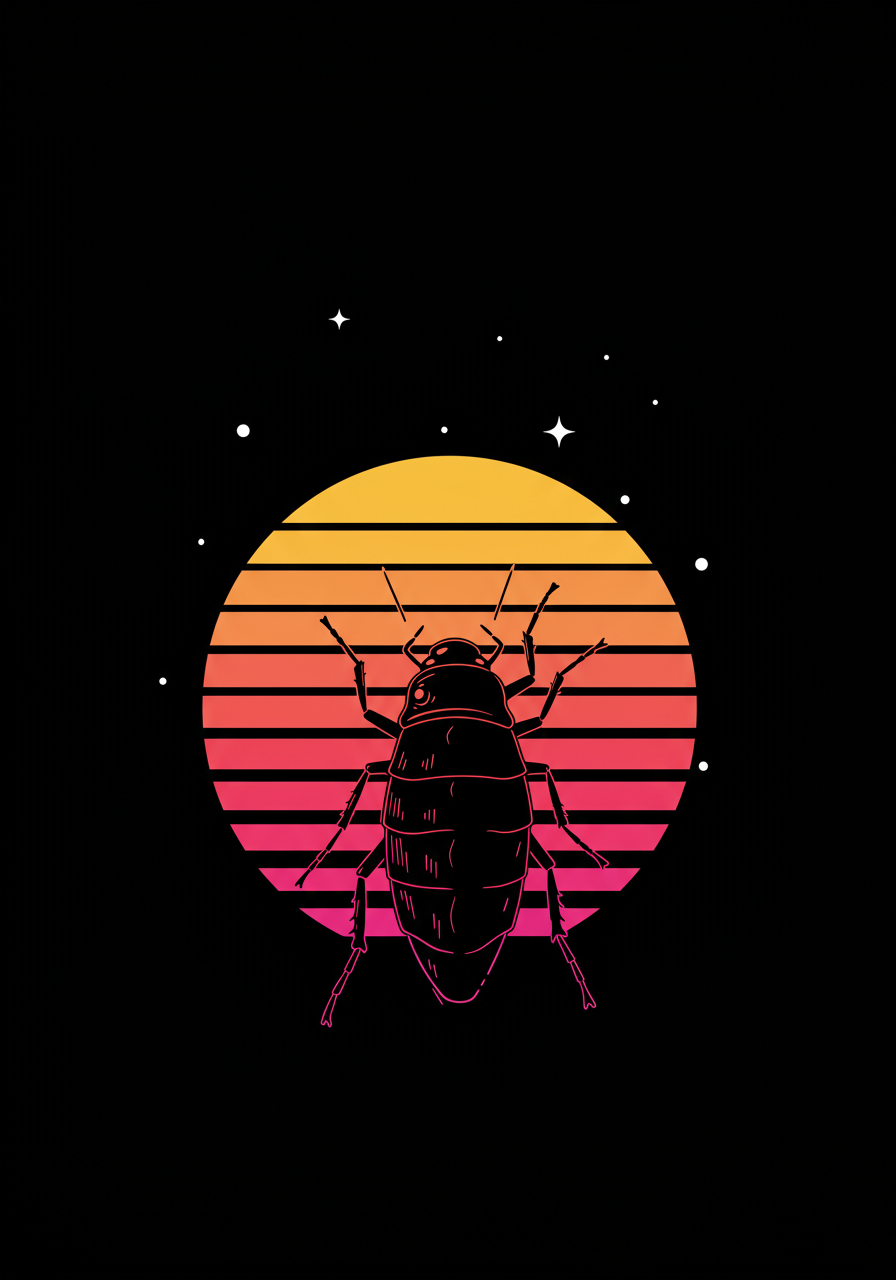
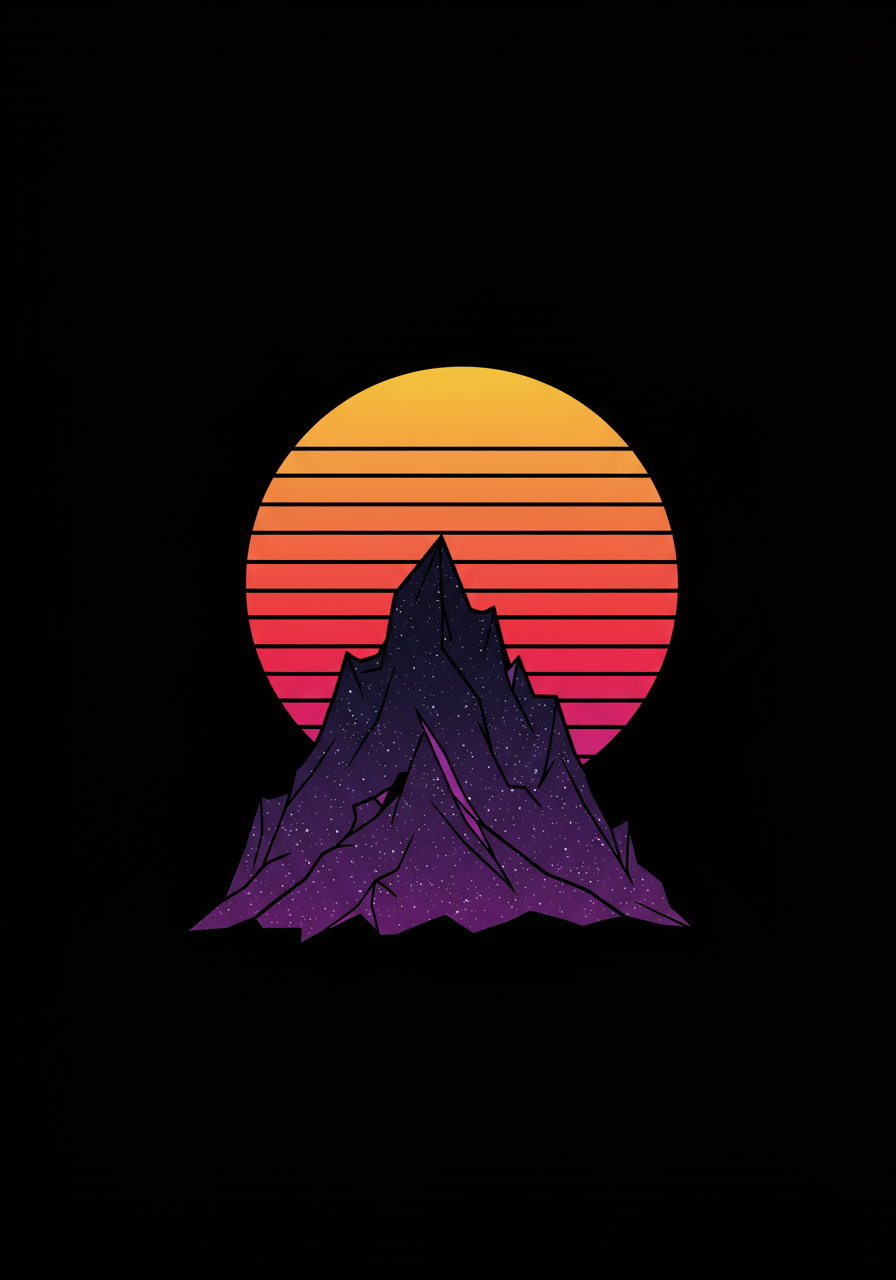
feat: prefill Razorpay checkout with user details + update lot artwork
Pass name/email/contact to the Razorpay modal so checkout is
pre-populated, and refresh lot-2/4/5 artwork images.

Changed region(s): [[0.2188, 0.2812, 0.7812, 0.7812], [0.3438, 0.7812, 0.375, 0.8125], [0.25, 0.3125, 0.2812, 0.3438]]

diff --git a/src/pages/PaymentPage.jsx b/src/pages/PaymentPage.jsx
@@ -205,6 +205,7 @@ export default function PaymentPage() {
       const data = await r.json();
       if (!r.ok) throw new Error(data.error || 'Failed to create order');
 
+      const selectedAddress = addresses.find((a) => a.id === selectedAddr);
       const rzp = new window.Razorpay({
         key: import.meta.env.VITE_RAZORPAY_KEY_ID,
         order_id: data.razorpayOrderId,
@@ -212,6 +213,11 @@ export default function PaymentPage() {
         currency: data.currency,
         name: 'Oxide Atelier',
         description: data.lotTitle,
+        prefill: {
+          name: user?.name ?? '',
+          email: user?.email ?? '',
+          contact: selectedAddress?.phone ?? user?.phone ?? '',
+        },
         theme: { color: '#e6c27e' },
         handler: async (response) => {
           try {